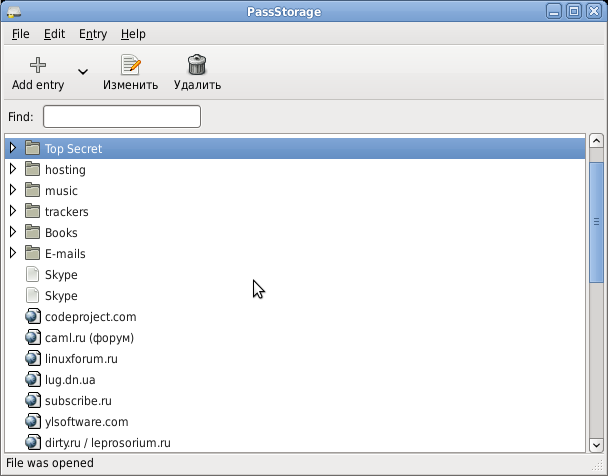
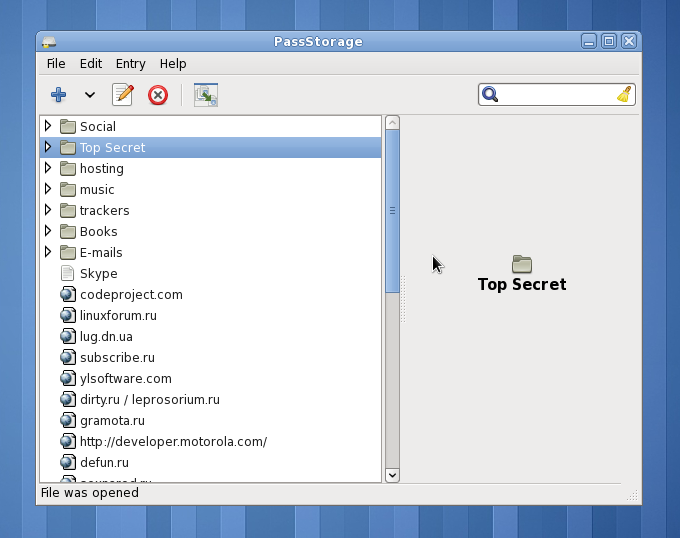
redesign. new screenshots

diff --git a/_layouts/default.html b/_layouts/default.html
@@ -1,127 +1,54 @@
-<!DOCTYPE html PUBLIC "-//W3C//DTD XHTML 1.0 Strict//EN"
-	"http://www.w3.org/TR/xhtml1/DTD/xhtml1-strict.dtd">
-
-<html xmlns="http://www.w3.org/1999/xhtml" xml:lang="en" lang="en">
-  <head>
-    <meta http-equiv="Content-Type" content="text/html; charset=utf-8"/>
-    <link rel="icon" type="image/png" href="/PassStorage/favicon.png" />
-    <link rel="alternate" href="http://andy128k.github.com/PassStorage/feed.atom" type="application/atom+xml"/>
-    <link rel="stylesheet" href="/PassStorage/css/reset.css" />
-    <link rel="stylesheet" href="/PassStorage/css/text.css" />
-    <link rel="stylesheet" href="/PassStorage/css/960.css" />
-
-    <title>PassStorage</title>
-    
-    <style type="text/css">
-      body {
-      margin-top: 1em;
-      margin-bottom: 1em;
-      background-color: #eee;
-      font-family: Helvetica, Arial, FreeSans; 
-      color: #000000;
-      }
-
-      #container {
-      margin: 0 auto;
-      border: 1px solid black;
-      background-color: white;
-      -moz-border-radius: 10px;
-      -webkit-border-radius: 10px;
-      }
-
-      #header {
-      margin-top: 1em;
-      background-color: #658761;
-      margin-bottom: 2em;
-      -moz-border-radius: 10px 10px 0 0;
-      -webkit-border-radius: 10px 10px 0 0;
-      }
-
-      #header * {
-      color: white;
-      }
-
-      #sidebar * {
-      color: #658761;
-      }
-
-      #sidebar ul {
-      list-style-type: none;
-      margin: 0;
-      }
-
-      #sidebar li {
-      margin: 0;
-      font-size: 1.5em;
-      }
-
-      #footer {
-      background-color: #658761;
-      margin-bottom: 10px;
-      text-align: center;
-      -moz-border-radius: 0 0 10px 10px;
-      -webkit-border-radius: 0 0 10px 10px;
-      }
-
-      #footer * {
-      margin: 4px;
-      color: white;
-      }
-
-      h1 { font-size: 3.8em; color: #000; margin: 10px; }
-      h1 a { text-decoration: none }
-
-      h2 { font-size: 2.5em; color: #658761; }
-      h3 { font-size: 1.5em; color: #658761; }
-      h3 * { color: #658761; }
-      h4 { font-size: 1.3em; color: #658761; }
-      hr { border: 0; width: 80%; border-bottom: 1px solid #aaa}
-    </style>
-    
-  </head>
-
+<!DOCTYPE html>
+<html>
+<head>
+  <meta http-equiv="Content-Type" content="text/html; charset=utf-8"/>
+  <link rel="icon" type="image/png" href="/PassStorage/favicon.png" />
+  <link rel="alternate" href="http://andy128k.github.com/PassStorage/feed.atom" type="application/atom+xml"/>
+  <link rel="stylesheet" href="css/style.css" />
+  <title>PassStorage</title>
+</head>
 <body>
-  <!--a href="http://github.com/andy128k/PassStorage"><img style="position: absolute; top: 0; right: 0; border: 0;" src="http://s3.amazonaws.com/github/ribbons/forkme_right_darkblue_121621.png" alt="Fork me on GitHub" /></a-->
-  
-  <div id="container" class="container_12">
+<div id="container">
 
-    <div id="header" class="grid_12">
-      <img src="/PassStorage/icon.png" style="float: right; margin: 10px;"/>
-      <h1><a href="/PassStorage">PassStorage</a></h1>
-      <div style="font-size: 1.2em; font-style: italic; margin: 10px;">
-	Secure storage for your secrets
-      </div>
+  <div id="header">
+    <img src="/PassStorage/icon.png">
+    <h1><a href="/PassStorage/">PassStorage</a></h1>
+    <div id="motto">
+      Secure storage for your secrets
     </div>
-
-    <div class="clear"></div>
-    
-    <div id="sidebar" class="grid_3">
-      <ul>
-        <li><a href="/PassStorage/index.html">Home</a></li>
-        <li><a href="/PassStorage/news.html">News</a></li>
-        <li><a href="/PassStorage/screenshots.html">Screenshots</a></li>
-        <li><a href="http://github.com/andy128k/PassStorage">GitHub page</a></li>
-        <li><a href="http://github.com/andy128k/PassStorage/downloads">Downloads</a></li>
-        <li><a href="http://github.com/andy128k/PassStorage/issues">Issues</a></li>
-      </ul>
-
-      <div style="margin-top: 1em;">
-        <a href="http://feeds.feedburner.com/PassStorageNews" title="subscribe"><img src="/PassStorage/feed.png" alt="subscribe" /></a>
-      </div>
-    </div>
-
-    <div id="body" class="grid_9">
-      {{ content }}
-    </div>
-
-    <div class="clear"></div>
-
-    <div id="footer" class="grid_12">
-      <p>Andrey Kutejko <a href="mailto:andy128k@gmail.com">andy128k@gmail.com</a></p>
-    </div>
-
-    <div class="clear"></div>
   </div>
+
+  <div id="sidebar">
+    <ul>
+      <li><a href="/PassStorage/index.html">Home</a></li>
+      <li><a href="/PassStorage/news.html">News</a></li>
+      <li><a href="/PassStorage/screenshots.html">Screenshots</a></li>
+      <li><a href="http://github.com/andy128k/PassStorage">GitHub page</a></li>
+      <li><a href="http://github.com/andy128k/PassStorage/downloads">Downloads</a></li>
+      <li><a href="http://github.com/andy128k/PassStorage/issues">Issues</a></li>
+    </ul>
+
+    <div style="margin-top: 1em;">
+      <a href="http://feeds.feedburner.com/PassStorageNews" title="subscribe"><img src="/PassStorage/feed.png" alt="subscribe" /></a>
+    </div>
+  </div>
+
+  <div id="body">
+    {{ content }}
+  </div>
+
+  <div id="buttons">
+    <a href="http://lisper.ru/" title="Made with secret alien technology"><img src="/PassStorage/images/alien.png" alt="Made with secret alien technology"></a>
+    <a href="http://www.sbcl.org/" title="SBCL"><img src="/PassStorage/images/sbclbutton.png" alt="SBCL"></a>
+    <a href="http://www.gtk.org/" title="GTK+"><img src="/PassStorage/images/gtk.png" alt="GTK+"></a>
+    <a href="http://github.com/" title="GitHub"><img src="/PassStorage/images/github.png" alt="GitHub"></a>
+  </div>
+
+  <div id="footer">
+    Andrey Kutejko <a href="mailto:andy128k@gmail.com">andy128k@gmail.com</a>
+  </div>
+
+</div>
 </body>
 </html>
 

diff --git a/css/style.css b/css/style.css
@@ -1,0 +1,117 @@
+html,body,div,span,applet,object,iframe,h1,h2,h3,h4,h5,h6,p,blockquote,pre,a,abbr,acronym,address,big,cite,code,del,dfn,em,font,img,ins,kbd,q,s,samp,small,strike,strong,sub,sup,tt,var,b,u,i,center,dl,dt,dd,ol,ul,li,fieldset,form,label,legend,table,caption,tbody,tfoot,thead,tr,th,td{margin:0;padding:0;border:0;outline:0;font-size:100%;vertical-align:baseline;background:transparent}body{line-height:1}ol,ul{list-style:none}blockquote,q{quotes:none}blockquote:before,blockquote:after,q:before,q:after{content:'';content:none}:focus{outline:0}ins{text-decoration:none}del{text-decoration:line-through}table{border-collapse:collapse;border-spacing:0}
+
+a:focus{outline:1px dotted}
+hr{border:0 #ccc solid;border-top-width:1px;clear:both;height:0}
+h1{font-size:25px}
+h2{font-size:23px}
+h3{font-size:21px}
+h4{font-size:19px}
+h5{font-size:17px}
+h6{font-size:15px}
+ol{list-style:decimal}
+ul{list-style:disc}
+li{margin-left:30px}
+p,dl,hr,h1,h2,h3,h4,h5,h6,ol,ul,pre,table,address,fieldset{margin-bottom:20px}
+
+body {
+  margin: 20px 0;
+  background-color: #eee;
+  font: 13px/1.5 'Helvetica Neue',Arial,'Liberation Sans',FreeSans,sans-serif;
+  color: #000000;
+}
+
+#container {
+  margin: 0 auto;
+  width: 960px;
+  border: 1px solid #666;
+  background-color: white;
+  border-radius: 10px;
+  box-shadow: 0 0 15px rgba(0, 0, 0, 0.5);
+}
+
+#header {
+  margin: 10px 10px 20px;
+  background-color: #658761;
+  border-radius: 10px 10px 0 0;
+}
+
+#header img {
+  float: right; margin: 10px;
+}
+
+#header * {
+  color: white;
+}
+
+#header h1 {
+  text-shadow: 1px 1px 1px #333;
+}
+
+#motto {
+  font-size: 1.2em;
+  font-style: italic;
+  padding: 0 0 10px 10px;
+  text-shadow: 1px 1px 1px #333;
+}
+
+#sidebar {
+  width: 220px;
+  padding: 0 10px;
+  float: left;
+}
+
+#sidebar * {
+  color: #658761;
+}
+
+#sidebar ul {
+  list-style-type: none;
+  margin: 0;
+}
+
+#sidebar li {
+  margin: 0;
+  font-size: 1.5em;
+}
+
+#body {
+  width: 710px;
+  margin: 0 10px 0 240px;
+}
+
+#buttons {
+  margin: 20px 0 0;
+  text-align: center;
+}
+
+#buttons a {
+  margin: 0 20px;
+}
+
+#buttons img {
+  border: 0;
+}
+
+#footer {
+  clear: both;
+  background-color: #658761;
+  text-align: center;
+  margin: 10px;
+  padding: 5px 0;
+  border-radius: 0 0 10px 10px;
+}
+
+#footer * {
+  margin: 4px;
+  color: white;
+}
+
+h1 { font-size: 3.8em; color: #000; margin: 10px; }
+h1 a { text-decoration: none }
+
+h2 { font-size: 2.5em; color: #658761; }
+h3 { font-size: 1.5em; color: #658761; }
+h3 * { color: #658761; }
+h4 { font-size: 1.3em; color: #658761; }
+hr { border: 0; width: 80%; border-bottom: 1px solid #aaa}
+

diff --git a/screenshots.html b/screenshots.html
@@ -1,11 +1,11 @@
 ---
-  layout: default
+layout: default
 ---
 <h2>Screenshots</h2>
 <p>Everybody likes screenshots.</p>
 
-<img src="/PassStorage/screenshots/main-window-clearlooks.png" alt="Главное окно. Gnome. Clearlooks."/>
-<img src="/PassStorage/screenshots/edit-entry-clearlooks.png" alt="Окно редактирования. Gnome. Clearlooks."/>
-<img src="/PassStorage/screenshots/main-window-winxp.png" alt="Главное окно. Windows XP."/>
-<img src="/PassStorage/screenshots/edit-entry-winxp.png" alt="Окно редактирования. Windows XP."/>
+<p><img src="/PassStorage/screenshots/main-window-clearlooks.png" alt="Главное окно. Gnome. Clearlooks."/></p>
+<p><img src="/PassStorage/screenshots/edit-entry-clearlooks.png" alt="Окно редактирования. Gnome. Clearlooks."/></p>
+<p><img src="/PassStorage/screenshots/main-window-winxp.png" alt="Главное окно. Windows XP."/></p>
+<p><img src="/PassStorage/screenshots/edit-entry-winxp.png" alt="Окно редактирования. Windows XP."/></p>
 

diff --git a/news.html b/news.html
@@ -1,5 +1,5 @@
 ---
-  layout: default
+layout: default
 ---
 <h2>News</h2>
 {% for post in site.posts %}

diff --git a/index.html b/index.html
@@ -1,5 +1,5 @@
 ---
-  layout: default
+layout: default
 ---
 <h2>What is it?</h2>
 
